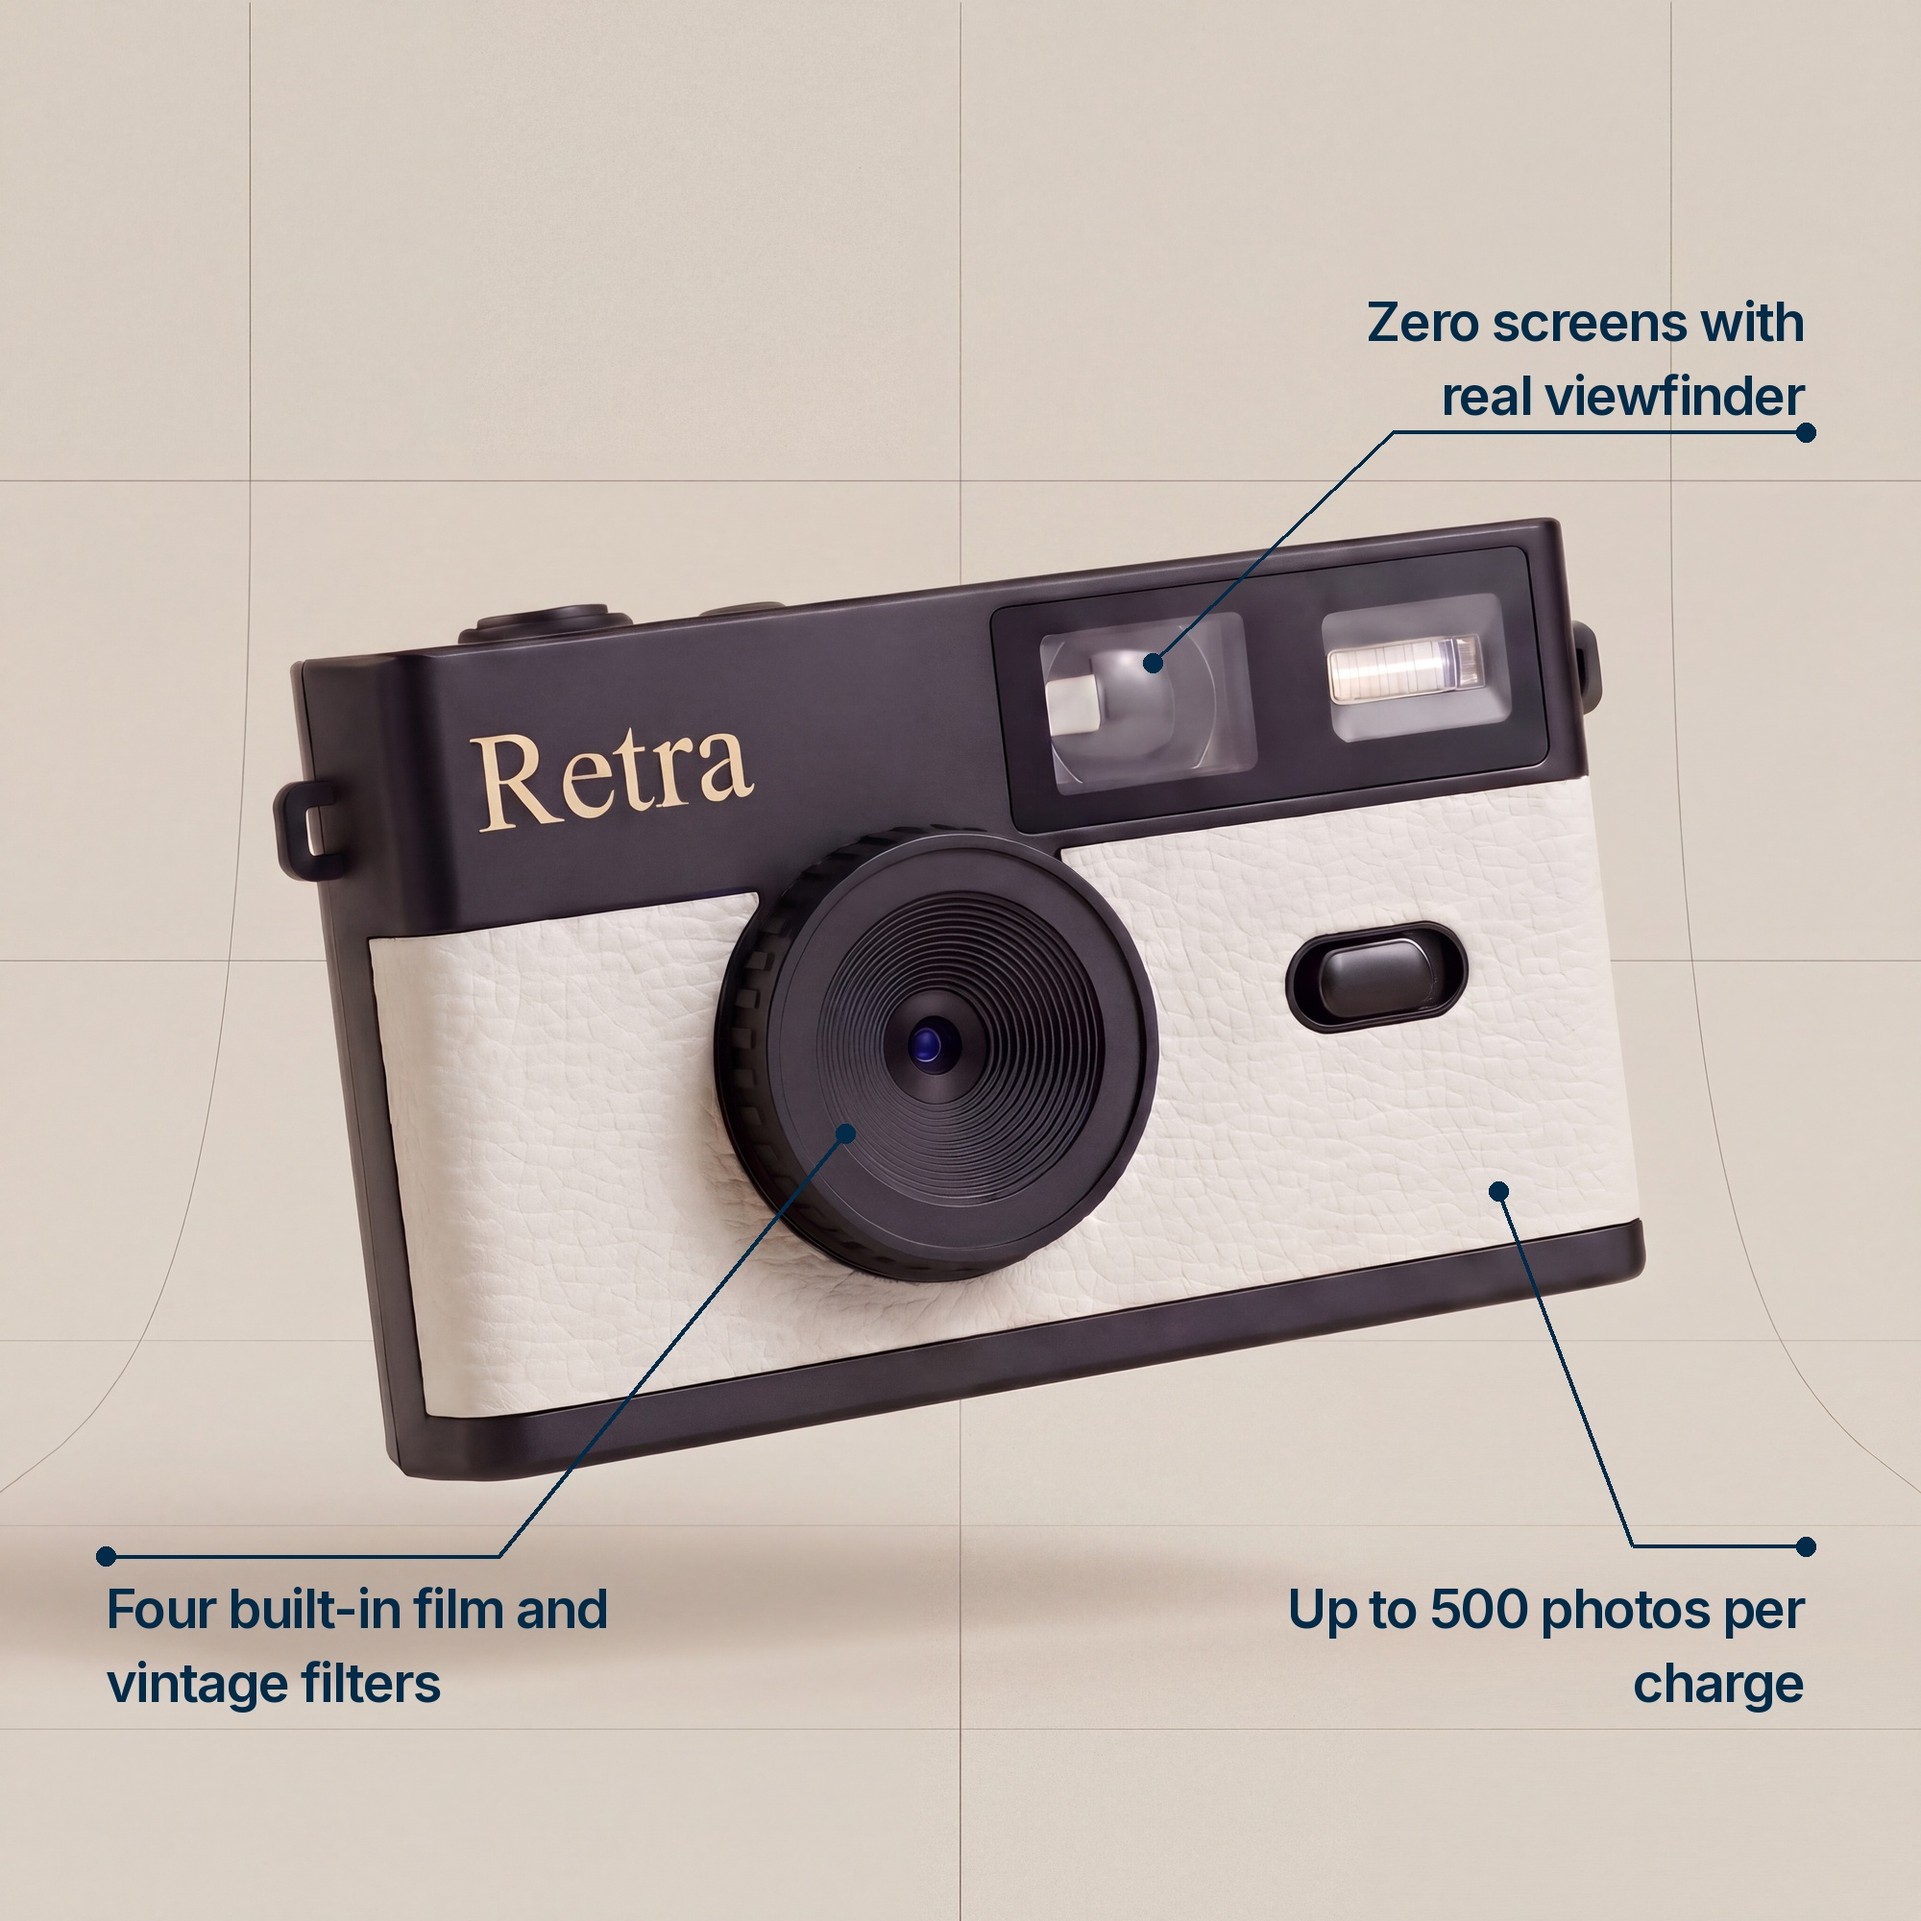
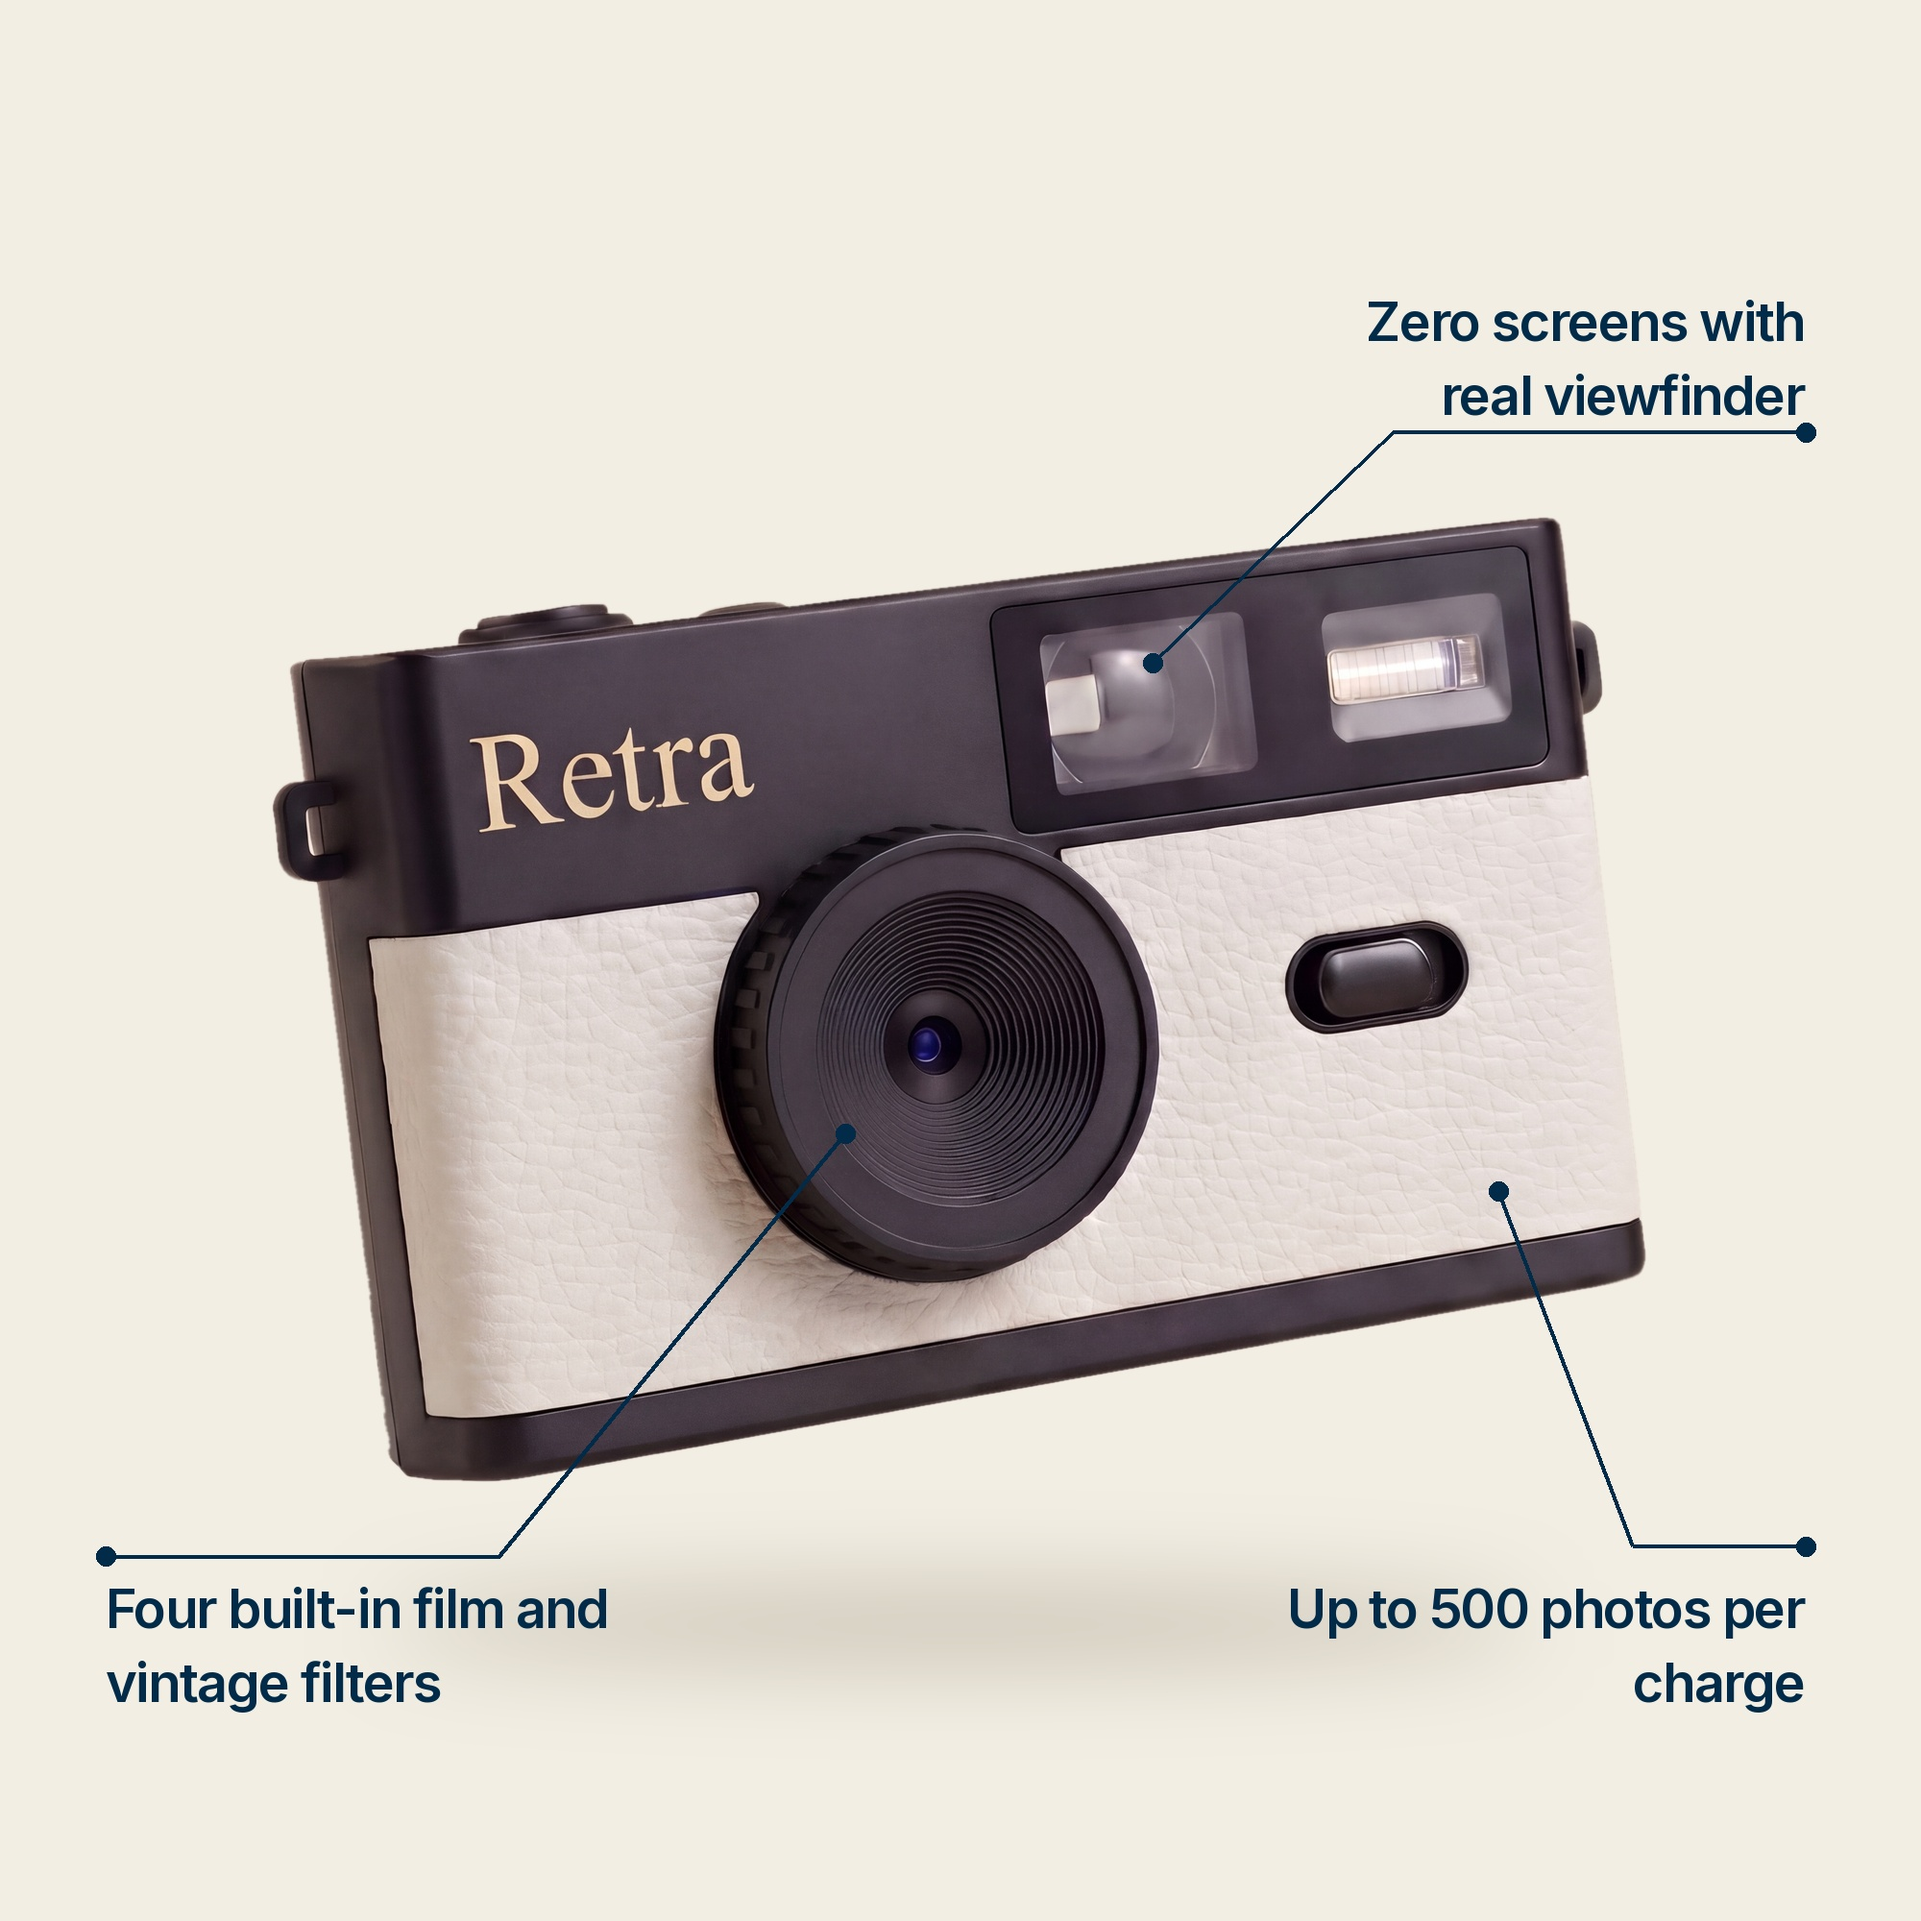
Retra callout images: flat store-cream background and soft lighting to match the front/back image
Claude-Session: https://claude.ai/code/session_01Mp8pTs9zpTh5aGe4znSQmT

diff --git a/ads/brands/retra/gallery/compose_gallery.py b/ads/brands/retra/gallery/compose_gallery.py
@@ -342,8 +342,32 @@ def macro(c):
     return img.convert("RGB")
 
 
+def float_alpha(c):
+    """Camera mask for a float render, from its green-screen copy (renders/green_float_<c>.png), at S x S."""
+    g = np.asarray(Image.open(HERE / "renders" / f"green_float_{c}.png").convert("RGB").resize((S, S), Image.LANCZOS)).astype(np.float32)
+    gness = g[..., 1] - np.maximum(g[..., 0], g[..., 2])
+    hard = gness < 50
+    hard = ndimage.binary_opening(hard, iterations=3)
+    lab, n = ndimage.label(hard)
+    hard = ndimage.binary_fill_holes(lab == (1 + np.argmax(ndimage.sum(hard, lab, range(1, n + 1)))))
+    return hard
+
+
 def float_(c):
-    img = ImageOps.fit(Image.open(src(PICKS[f"float_{c}"])).convert("RGB"), (S, S), Image.LANCZOS).convert("RGBA")
+    """Camera on the flat store cream with soft even light (matches the front/back image); same position as the render."""
+    scene = ImageOps.fit(Image.open(src(PICKS[f"float_{c}"])).convert("RGB"), (S, S), Image.LANCZOS)
+    m = float_alpha(c)
+    ys, xs = np.where(m)
+    img = Image.new("RGBA", (S, S), CREAM + (255,))
+    # soft floating shadow, a little below the camera (like the front/back image's grounded softness)
+    cw = xs.max() - xs.min()
+    sh = Image.new("L", (S, S), 0)
+    cy = ys.max() + 150
+    ImageDraw.Draw(sh).ellipse((xs.min() + cw * 0.08, cy - 34, xs.max() - cw * 0.08, cy + 34), fill=95)
+    sh = sh.filter(ImageFilter.GaussianBlur(45))
+    img.paste(Image.new("RGBA", (S, S), (120, 105, 85, 255)), (0, 0), sh)
+    alpha = Image.fromarray((m * 255).astype("uint8")).filter(ImageFilter.GaussianBlur(1.0))
+    img.paste(scene.convert("RGBA"), (0, 0), alpha)
     d = ImageDraw.Draw(img)
     f = inter(56, "SemiBold")
     f.track = -0.03 * 56

diff --git a/ads/brands/retra/gallery/green_cutouts.py b/ads/brands/retra/gallery/green_cutouts.py
@@ -40,7 +40,7 @@ def green(name):
                   " a flat, even chroma-key green (#00B140). Keep the camera exactly as it is: same position, size,"
                   " angle, colours, textures, buttons, ports, lenses and gold 'Retra' wordmark. Do not add anything."
                   + FIX.get(name, FIX["bottom"] if name.startswith("bottom") else ""))
-        res = "4K" if name.startswith("front") else "2K"
+        res = "4K" if name.startswith(("front", "float")) else "2K"
         tid = kie.create("nano-banana-pro", {"prompt": prompt, "image_input": [u], "aspect_ratio": "auto",
                                              "resolution": res, "output_format": "png"})
         r = kie.wait(tid)
